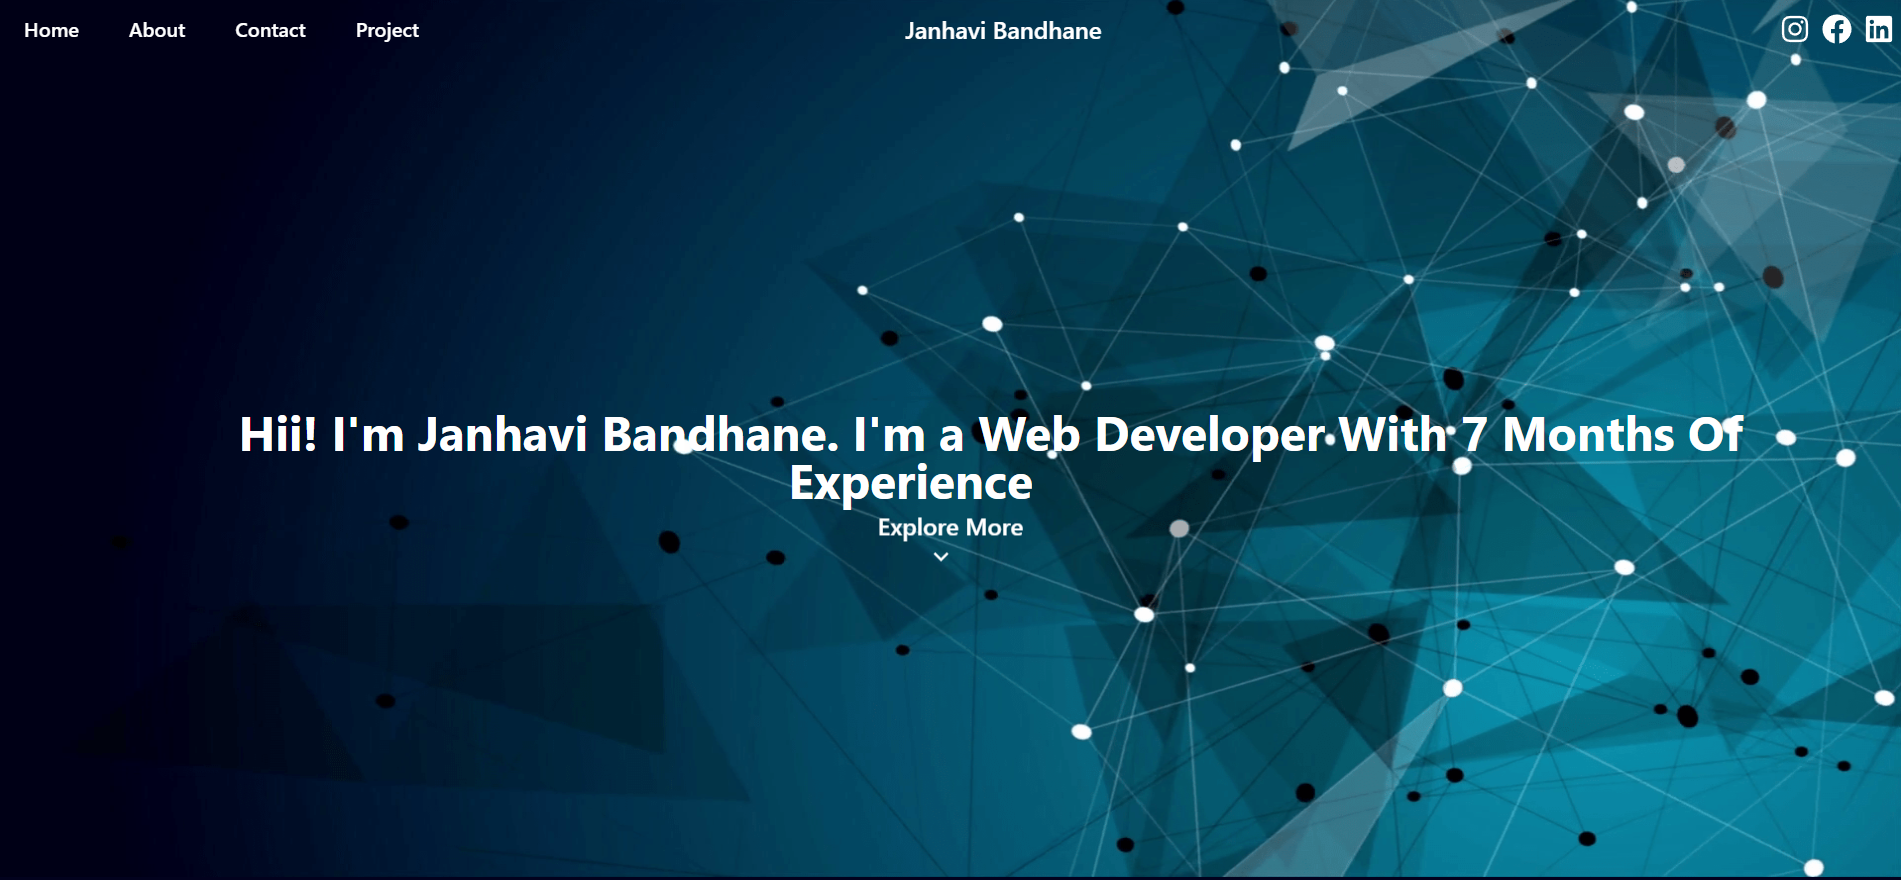
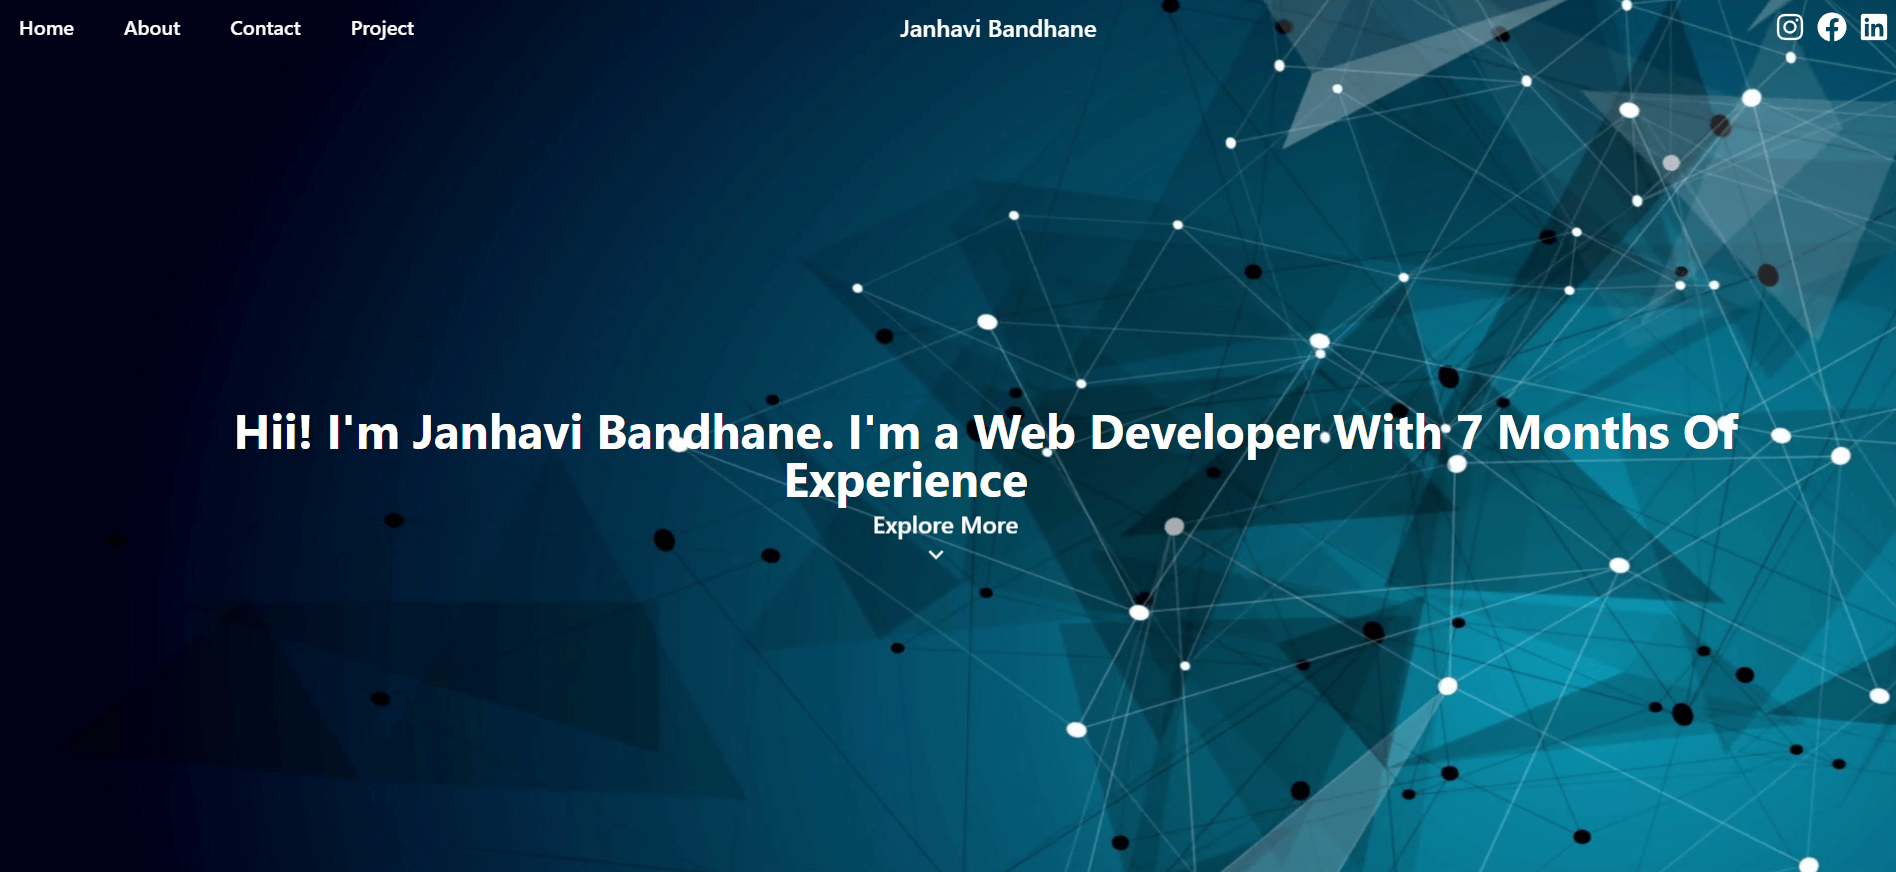
Images added

diff --git a/src/Component/Header.jsx b/src/Component/Header.jsx
@@ -1,5 +1,5 @@
 import React, { useState, useEffect } from 'react';
-import Img from '/Images/head.webp';
+import Img from '/Images/head.png';
 import { MdOutlineKeyboardArrowDown } from 'react-icons/md';
 
 function Header() {
